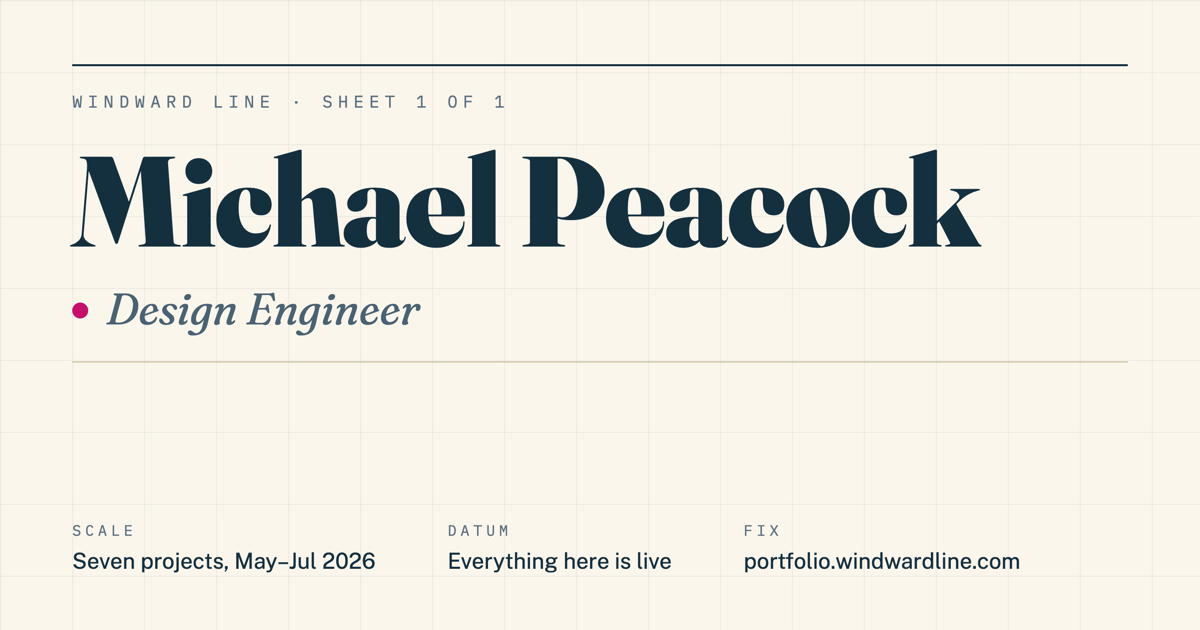
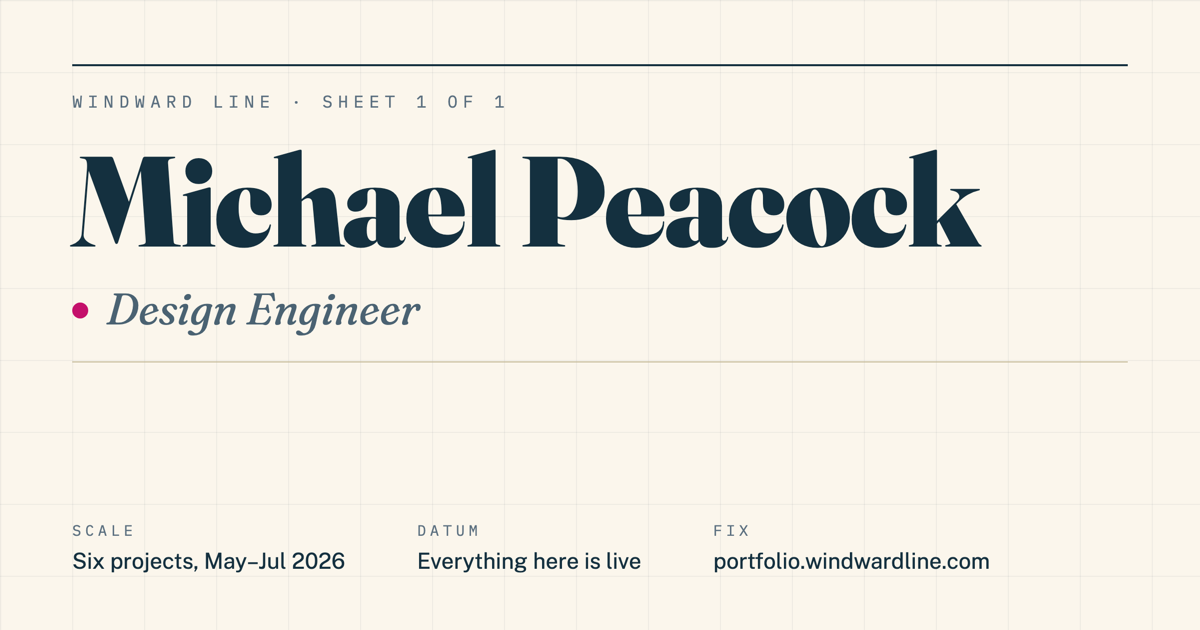
chore: retire Refactored (#12)
Remove the Refactored waypoint, its legend row and private-repository
marks, and recount the chart to six projects. Regenerate the OG image
to match.

diff --git a/index.html b/index.html
@@ -4,17 +4,17 @@
 <meta charset="utf-8">
 <meta name="viewport" content="width=device-width, initial-scale=1">
 <title>Michael Peacock — Design Engineer</title>
-<meta name="description" content="Design engineer shipping whole products — seven projects in three months, plotted as a navigational chart. Former US Navy Information Warfare officer, former Gartner consultant.">
+<meta name="description" content="Design engineer shipping whole products — six projects in three months, plotted as a navigational chart. Former US Navy Information Warfare officer, former Gartner consultant.">
 <meta name="color-scheme" content="light dark">
 
 <meta property="og:title" content="Michael Peacock — Design Engineer">
-<meta property="og:description" content="Seven shipped projects, plotted as a navigational chart.">
+<meta property="og:description" content="Six shipped projects, plotted as a navigational chart.">
 <meta property="og:type" content="website">
 <meta property="og:url" content="https://portfolio.windwardline.com/">
 <meta property="og:image" content="https://portfolio.windwardline.com/assets/og.png">
 <meta property="og:image:width" content="1200">
 <meta property="og:image:height" content="630">
-<meta property="og:image:alt" content="Chart-style title block: Michael Peacock, Design Engineer. Scale: seven projects, May–Jul 2026. Datum: everything here is live.">
+<meta property="og:image:alt" content="Chart-style title block: Michael Peacock, Design Engineer. Scale: six projects, May–Jul 2026. Datum: everything here is live.">
 <meta name="twitter:card" content="summary_large_image">
 
 <link rel="preconnect" href="https://fonts.googleapis.com">
@@ -54,7 +54,7 @@
   <p class="block__sub">Design Engineer</p>
 
   <dl class="block__meta">
-    <div><dt>Scale</dt><dd>Seven projects, May–Jul 2026</dd></div>
+    <div><dt>Scale</dt><dd>Six projects, May–Jul 2026</dd></div>
     <div><dt>Soundings in</dt><dd>Commits, tests, deploys</dd></div>
     <div><dt>Projection</dt><dd>Chronological</dd></div>
     <div><dt>Datum</dt><dd>Everything here is live</dd></div>
@@ -62,9 +62,8 @@
 
   <p class="block__lede">
     I build things that help people get somewhere they haven't been.
-    Seven projects in three months — six running in production with real
-    users' data behind row-level security, and the seventh a venture still
-    being chartered.
+    Six projects in three months, all running in production with real
+    users' data behind row-level security.
   </p>
 
   <nav class="block__nav" aria-label="Sections">
@@ -264,34 +263,6 @@
         </article>
       </li>
 
-      <!-- 07 -->
-      <li class="wp" data-kind="private">
-        <div class="wp__pin" aria-hidden="true"></div>
-        <article class="card">
-          <header class="card__head">
-            <p class="card__when"><span class="sounding">2026-07</span> → ongoing</p>
-            <h3 class="card__name">Refactored</h3>
-            <p class="card__kind" data-kind="private">Private repository</p>
-          </header>
-          <p class="card__body">
-            A venture in foundation: a software company being built to hire
-            formerly incarcerated engineers and compete on excellence —
-            <em>mission follows mastery</em>. It runs as a private repository
-            before it runs as a business: strategy and decisions
-            version-controlled and reviewed like source. Pathfinder — built
-            first, standing on its own — set the bar it will be held to.
-          </p>
-          <ul class="stack">
-            <li>Docs-as-code</li><li>CI-validated</li><li>Static site</li><li>Vercel</li><li>Cloudflare</li>
-          </ul>
-          <p class="card__sound">Documentation is source code · decisions are architecture</p>
-          <p class="card__links">
-            <a href="https://wearerefactored.com" target="_blank" rel="noopener noreferrer">Live site</a>
-            <span class="muted">Company repo private by design</span>
-          </p>
-        </article>
-      </li>
-
     </ol>
   </div>
 </section>
@@ -317,10 +288,6 @@
       <div class="legend__row">
         <dt><span class="key key--course" aria-hidden="true"></span> Course project</dt>
         <dd>Built to a brief and a deadline for coursework. Deployed and working — but scoped to the assignment, not to a market. — Proper Form, TimeShift, That's Extra</dd>
-      </div>
-      <div class="legend__row">
-        <dt><span class="key key--private" aria-hidden="true"></span> Private repository</dt>
-        <dd>Real material I can describe but not open. Available to talk through in an interview. — Refactored</dd>
       </div>
       <div class="legend__row">
         <dt><span class="key key--light" aria-hidden="true"></span> Major light</dt>
@@ -385,14 +352,11 @@
       I am also a formerly incarcerated engineer. That shows up in the work
       rather than around it. Pathfinder exists because reentry is a routing
       problem nobody bothered to solve properly. Proper Form was written for a
-      man preparing for his first interview in years. Refactored, the venture
-      I am chartering, will employ engineers with records on one principle:
-      <em>mission follows mastery</em>. The mission earns nothing if the craft
-      does not hold.
+      man preparing for his first interview in years.
     </p>
 
     <p>
-      So the craft is where I spend. Row-level security before the first user.
+      The craft is where I spend. Row-level security before the first user.
       Test-first on the temporal engine, because time zones punish confidence.
       A deterministic fallback in That's Extra, because a demo that depends on
       someone else's uptime is not a demo. A recovery drill in Pathfinder's CI,

diff --git a/style.css b/style.css
@@ -255,7 +255,6 @@ code { font-family: var(--mono); font-size: 0.9em; }
 }
 .wp[data-kind="prod"]    .wp__pin { border-color: var(--magenta); }
 .wp[data-kind="course"]  .wp__pin { border-color: var(--ink-soft); }
-.wp[data-kind="private"] .wp__pin { border-color: var(--ink-faint); border-style: dashed; }
 
 /* The major light outranks its production mark — it is the one fixed
    point the chart is oriented from, so it reads as a lit beacon. */
@@ -306,7 +305,6 @@ code { font-family: var(--mono); font-size: 0.9em; }
 }
 .card__kind[data-kind="prod"]    { color: var(--magenta); }
 .card__kind[data-kind="course"]  { color: var(--ink-soft); }
-.card__kind[data-kind="private"] { color: var(--ink-faint); }
 
 .card__body { margin: 1rem 0 0; max-width: 62ch; color: var(--ink-soft); }
 
@@ -351,7 +349,6 @@ code { font-family: var(--mono); font-size: 0.9em; }
 .key { width: 13px; height: 13px; border-radius: 50%; flex: none; border: 2px solid var(--ink-soft); }
 .key--prod    { border-color: var(--magenta); }
 .key--course  { border-color: var(--ink-soft); }
-.key--private { border-color: var(--ink-faint); border-style: dashed; }
 .key--light   { background: var(--magenta); border-color: var(--magenta); box-shadow: 0 0 0 4px color-mix(in srgb, var(--magenta) 18%, transparent); }
 
 @media (max-width: 40rem) { .legend__row { grid-template-columns: 1fr; } }

diff --git a/README.md b/README.md
@@ -5,11 +5,9 @@ Live: **[portfolio.windwardline.com](https://portfolio.windwardline.com)**
 A static portfolio. No framework, no build step, no dependencies — three files
 and a config.
 
-Seven waypoints as of July 2026: six products in production on their own
-domains (LevelFlow Cloud, Mimic, Pathfinder, Proper Form, TimeShift, That's
-Extra) and one venture in foundation — Refactored, at
-[wearerefactored.com](https://wearerefactored.com), with Pathfinder as its
-first proof. Every link on the chart resolves.
+Six waypoints as of July 2026, each in production on its own domain
+(LevelFlow Cloud, Mimic, Pathfinder, Proper Form, TimeShift, That's Extra).
+Every link on the chart resolves.
 
 ```
 index.html               structure and content
@@ -45,8 +43,8 @@ The sequence carries real information — it is the actual order the work
 happened in.
 
 The **legend** is where honesty lives. Not everything here is the same kind of
-thing, and a chart that hides that is worse than no chart, so production work,
-coursework, and private repositories are marked distinctly — and each waypoint
+thing, and a chart that hides that is worse than no chart, so production work
+and coursework are marked distinctly — and each waypoint
 draws the same mark as its row in the legend, so the two cannot drift apart
 without it being obvious.
 
